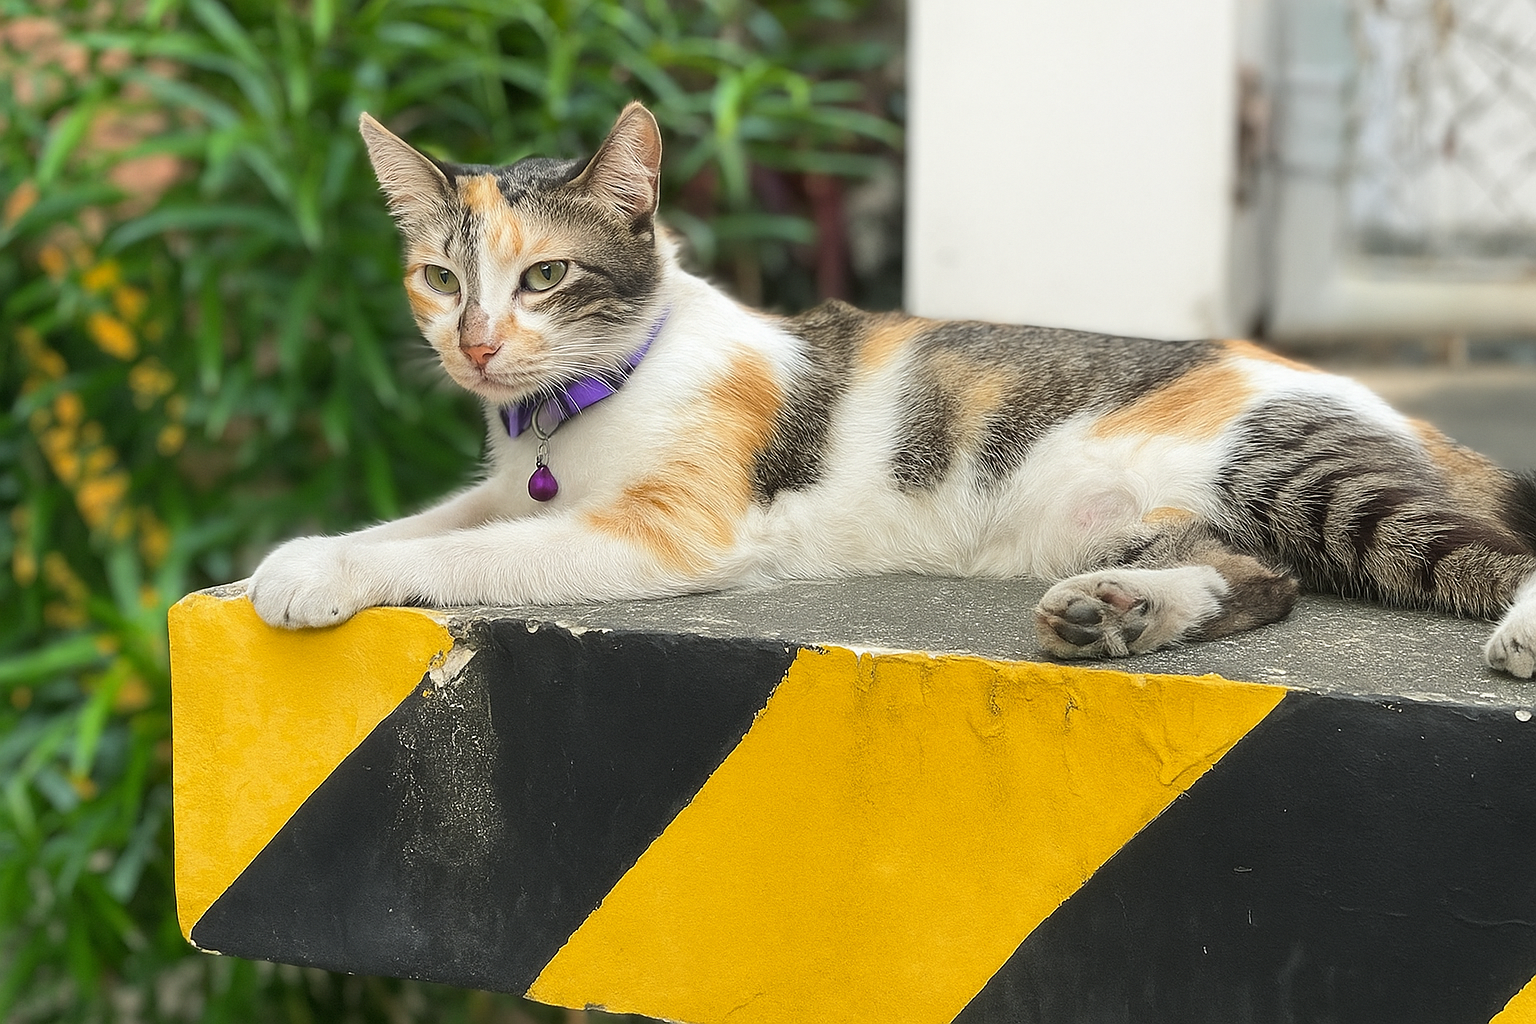
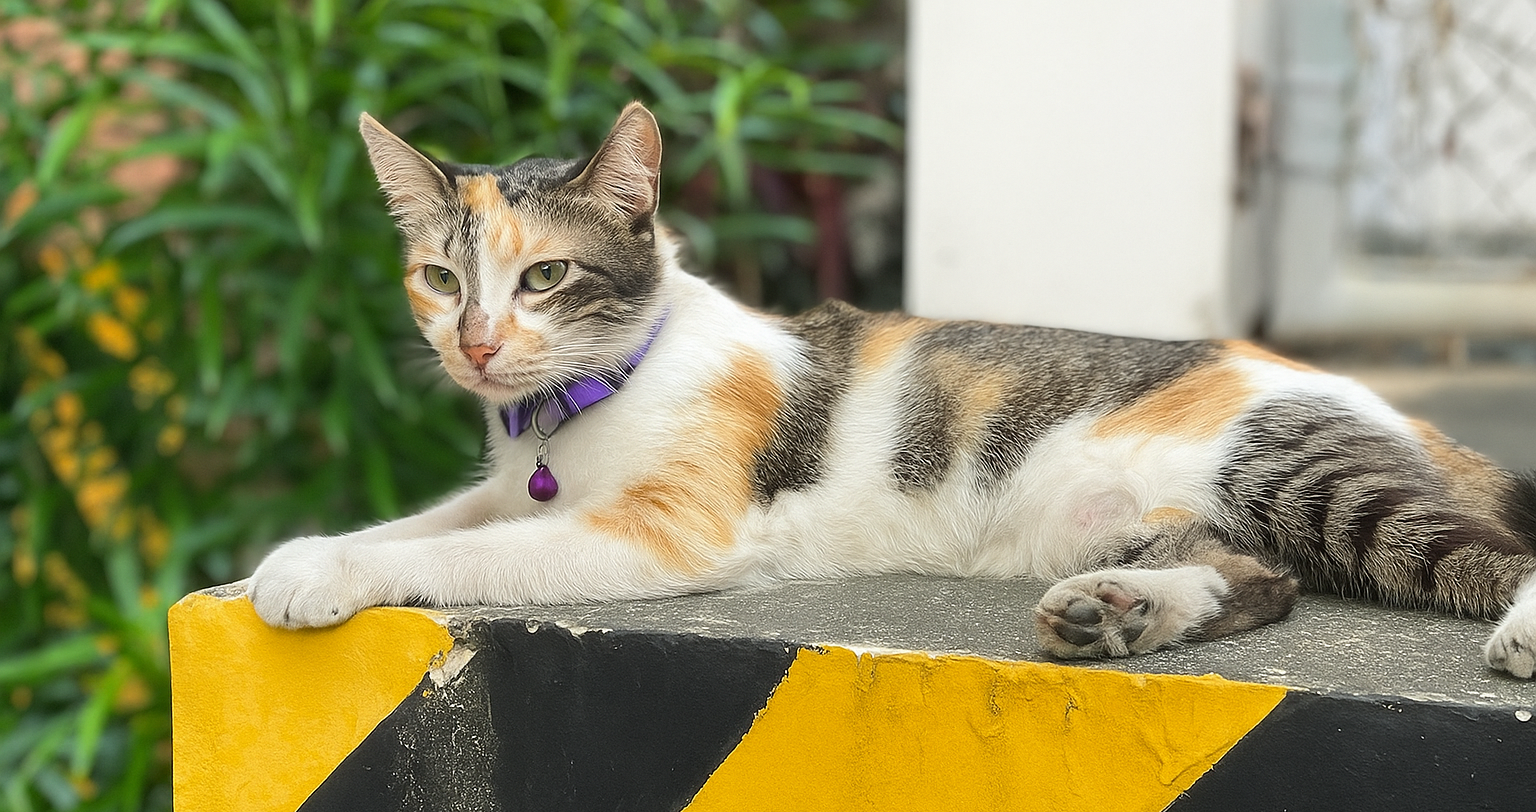
replaced homepage background

diff --git a/frontend/src/pages/Home.jsx b/frontend/src/pages/Home.jsx
@@ -58,7 +58,7 @@ const Home = () => {
           <div className='flex flex-col box-border w-full'>
             
             {/* MAIN CONTENT STARTS HERE */}
-            <div className="relative w-full h-[500px] xl:h-[600px] bg-[url('/assets/cats/cat-donate-bg.jpg')] bg-center bg-cover bg-no-repeat border-b-2 border-b-[#DC8801]">
+            <div className="relative w-full h-[500px] xl:h-[600px] bg-[url('/assets/cats/Edited_Cat_Cover_Photo.png')] bg-center bg-cover bg-no-repeat border-b-2 border-b-[#DC8801]">
               <div className='absolute left-1/2 top-1/2 transform -translate-x-1/2 -translate-y-1/2 flex flex-col items-center w-[400px] p-10 xl:w-auto lg:w-auto md:w-auto gap-5'>
                 <img src="/assets/image/Slogan_image_outline.png" alt="stray-today-safe-tomorrow" className='w-full h-full object-cover'/>
 
